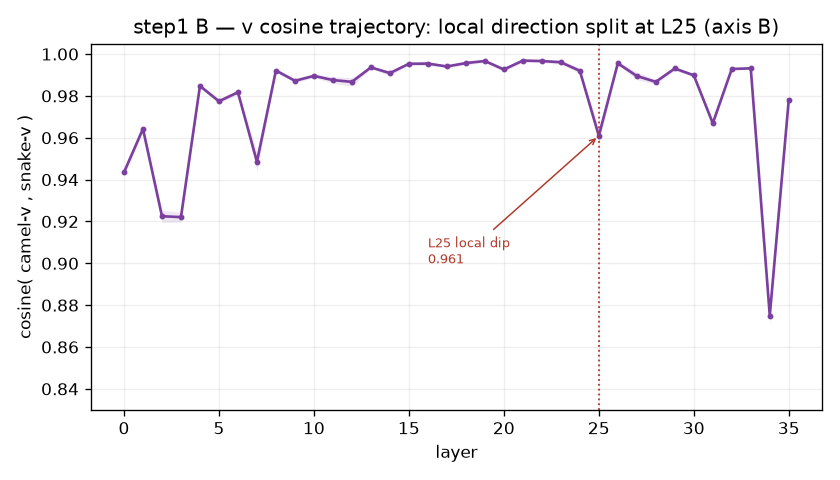
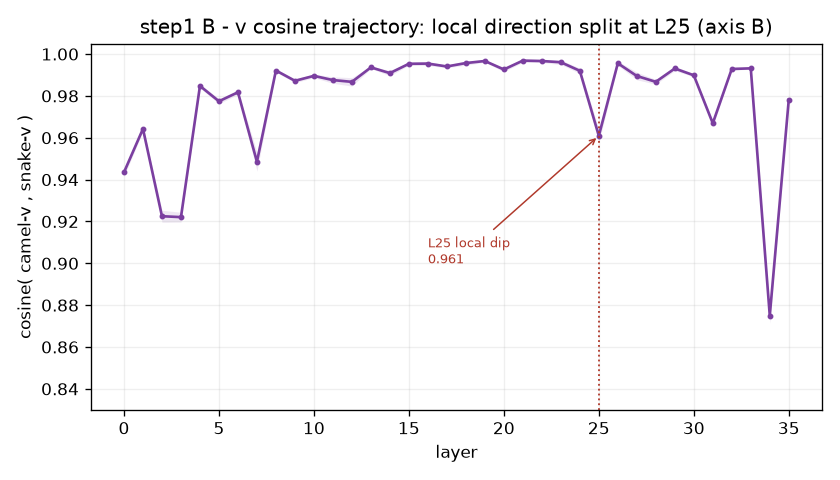
step1 docs: 용어 정리(이식값)·한자 제거·개념 구분 + qna Q3·Q4
- results.md: "donor"→"이식값"(graft), "死"→"무반응", "내용/형태" 혼동
  해소(축1 의미 vs 형태 / 축2 Key vs Value 분리 명시), 그림 라벨도
  graft로 재생성.
- qna.md: Q3(형태 vs Value 모순 해소), Q4(‖v‖·‖av‖ 관측과 step1
  회복률·코사인의 관계 = 관측→인과, 크기→방향) 추가.

Changed region(s): [[0.1548, 0.0312, 0.9286, 0.0938]]

diff --git a/docs/step1/results.md b/docs/step1/results.md
@@ -1,10 +1,13 @@
 # step 1 결과 — RQ2 층 스윕 + K/V 분해 (1차 실행)
 
-**대응 RQ:** RQ2 — 표기 형태를 매개하는 신호가 **어느 층**인가, **어느 경로(Key/Value)**인가, 그리고 그것이 **내용인가 형태인가·크기인가 방향인가**.
+**대응 RQ:** RQ2 — 표기 형태를 매개하는 신호가 **어느 층**인가, **어느 경로(Key/Value)**인가, 그리고 그것이 **의미인가 형태인가·크기인가 방향인가**.
 
 **설정.** `Qwen/Qwen2.5-Coder-3B-Instruct` (fp16, **36층**, GQA `num_attention_heads=16 / num_key_value_heads=2 / head_dim=128`, group 8). 지침=positive·camel·weak, 선행 = **전부 위반**(POOL n=0, snake 12개). L25 상대 위치 = 25/35 = **0.714**(후반).
 
-- **개입(A):** 30개 결과 중 스윕 20개 = donor 2종(compliant·unrelated_camel) × 10 seed. 각 조건이 **전 36층 × {Key만/Value만/Key+Value}**에서 세 상태 S와 회복률.
+- **개입(A):** 30개 결과 중 스윕 20개 = **이식값 2종** × 10 seed. 각 조건이 **전 36층 × {Key만/Value만/Key+Value}**에서 세 상태 S와 회복률.
+  - **이식값**(graft) = L25에서 위반 이름의 Value를 *무엇으로* 덮어쓰느냐, 그 재료. 두 종류:
+    - `compliant` = **같은이름-camel** (위반 `format_matrix`의 같은 단어 camel판 `formatMatrix`)
+    - `unrelated_camel` = **다른이름-camel** (위반과 무관한 단어의 camel판, 예 `parseHeader`)
 - **관측(B):** 코사인 10개 = 10 seed. 같은 이름의 camel판 v와 snake판 v의 층별 코사인.
 
 > **실행 전 예측:** 회복률 피크는 후반부(≈L25, 상대 0.6~0.75)에 국소화. compliant와 unrelated_camel 곡선은 전 층에서 겹침(형태 결론 유지). Value 단독 회복이 유의하면 축 B 성립. v 코사인은 피크 층 부근에서 하락 → Value 회복률 피크와 같은 층이면 축 B 확정.
@@ -17,7 +20,7 @@
 
 ### 1a. 층 국소화 — L25 단일 스파이크
 
-회복률이 **오직 L25에서만** 튀고 나머지 전 층은 ≈0.00이다. (donor=compliant, 대표 층)
+회복률이 **오직 L25에서만** 튀고 나머지 전 층은 ≈0.00이다. (이식값=같은이름-camel, 대표 층)
 
 | kind | L20 | L24 | **L25** | L26 | L30 | L35 |
 |---|---|---|---|---|---|---|
@@ -29,11 +32,11 @@
 
 stepC가 고른 L25가 우연이 아니었다. **전 층 스윕이 L25를 유일 피크로 확정**한다. 리뷰어의 "왜 25층?"에 곡선으로 답한다. 피크가 후반부(0.71)라는 것은 "표기 형태 결정이 출력에 가까운 단계에서 굳는다"는 해석과 맞물린다(계획서 §2.5 → step 8 로짓 렌즈).
 
-### 1b. K/V 분해 — Value가 전부, Key는 死 (핵심)
+### 1b. K/V 분해 — Value가 전부, Key는 무반응 (핵심)
 
 L25에서 경로별 회복률(10 seed 평균 ± std):
 
-| kind | compliant | unrelated_camel |
+| kind | 같은이름-camel | 다른이름-camel |
 |---|---|---|
 | **Value 단독** | **+0.648** ± 0.021 | +0.640 ± 0.02 |
 | Key+Value | +0.667 ± 0.022 | +0.663 ± 0.02 |
@@ -42,12 +45,12 @@ L25에서 경로별 회복률(10 seed 평균 ± std):
 ![L25 경로 분해](figs/kv_split_L25.png)
 
 - 회복은 **전부 Value가 진다.** Key+Value가 Value 단독보다 겨우 **+0.019** 크다 → Key의 추가 기여는 사실상 없다.
-- **Key 단독은 死** — 전 층에서 0에 붙어 있고(피크조차 L34 +0.02), L25에서는 오히려 미세 음수(−0.04).
+- **Key 단독은 무반응** — 전 층에서 0에 붙어 있고(피크조차 L34 +0.02), L25에서는 오히려 미세 음수(−0.04).
 - → 표기 형태 신호는 **Value 경로**(토큰이 실어 나르는 내용)에 있다. 어텐션 라우팅(Key)이 아니다.
 
-### 1c. 형태 vs 내용 — donor 통제 통과
+### 1c. 형태 vs 의미 — 이식값 통제 통과
 
-`compliant`(같은 이름 준수판)와 `unrelated_camel`(무관 준수형) 두 곡선이 **사실상 동일**하다: Key+Value 곡선의 **평균 절대차 0.001, 최대 0.005**. 같은 이름일 필요가 없다 → 회복은 내용이 아니라 **camel 형태 그 자체**가 낸다. 이 결론이 L25만이 아니라 전 층에서 유지된다.
+**같은이름-camel**(`formatMatrix`)과 **다른이름-camel**(`parseHeader` 등, 의미가 전혀 다름) 두 곡선이 **사실상 동일**하다: Key+Value 곡선의 **평균 절대차 0.001, 최대 0.005**. 의미가 완전히 틀린 이름을 이식해도 회복이 같다 → 회복을 내는 실효 성분은 이름의 **의미가 아니라 camel 형태 그 자체**다. 이 결론이 L25만이 아니라 전 층에서 유지된다.
 
 ### 1d. v 코사인 궤적 — L25 국소 딥 (축 B 방향)
 
@@ -65,7 +68,7 @@ L25에서 경로별 회복률(10 seed 평균 ± std):
 
 ## 2. Q/K/V — Key와 Value는 무엇이 다른가
 
-이 실험의 핵심이 "Key는 死, Value가 전부"이므로, 세 벡터의 역할을 짚어둔다.
+이 실험의 핵심이 "Key는 무반응, Value가 전부"이므로, 세 벡터의 역할을 짚어둔다.
 
 어텐션 층에서 각 토큰은 세 벡터를 만든다. 지금 **이름을 생성하려는 위치**(query 토큰)가 **선행 코드의 위반 이름 토큰들**(key/value를 가진 토큰)을 참조하는 상황이다.
 
@@ -75,14 +78,20 @@ L25에서 경로별 회복률(10 seed 평균 ± std):
 | **K (Key)** | 각 참조 토큰이 **자신을 어떻게 광고하는지**의 색인 | 책들의 색인표 | Q·K 내적이 **어텐션 가중치**를 정한다 = "어느 토큰을 볼지" (**라우팅**) |
 | **V (Value)** | 각 참조 토큰이 **실제로 실어 나르는 내용** | 색인이 가리키는 책의 본문 | 어텐션 가중치로 가중합돼 잔차 스트림에 더해진다 = "무엇을 읽을지" (**내용**) |
 
-핵심 공식(개념): `출력 = Σ_j softmax(Q·K_j) · V_j`. **K는 얼마나 볼지(가중치)를, V는 무엇을 읽을지(내용)를** 결정한다.
+핵심 공식(개념): `출력 = Σ_j softmax(Q·K_j) · V_j`. **K는 얼마나 볼지(가중치)를, V는 무엇을 읽을지(운반물)를** 결정한다.
+
+> **용어 주의 — "내용"이 두 뜻으로 쓰인다(혼동 지점).** 축을 분리한다.
+> - **축 1 (신호가 *무엇*인가):** 이름의 **의미(semantics)** vs **표기 형태(notation)**. → §1c가 답: **형태**.
+> - **축 2 (신호가 *어느 통로*인가):** **Key**(라우팅) vs **Value**(운반물). → §1b가 답: **Value**.
+>
+> "Value = 내용"의 '내용'은 **축 2의 "어텐션이 나르는 운반물"**이지, 축 1의 "코드 의미"가 아니다. 두 결론("신호는 형태다" + "그 신호는 Value 통로로 흐른다")은 층위가 달라 충돌하지 않는다. Value 벡터 안엔 의미·형태가 같이 실리지만(코사인 96% 공유=의미, 4% 차=형태), **표기 결정이 읽어가는 실효 성분은 형태뿐**이다(§1c의 이식값 통제가 증명 — 의미 틀린 이름을 이식해도 회복 동일).
 
 **그래서 이 실험의 치환이 무엇을 검증하나:**
 
-- **Key만 치환** = 위반 이름의 **색인(K)**을 준수판 색인으로 바꾼다. 어텐션 라우팅은 준수판처럼 재조정되지만, 정작 읽히는 **내용(V)은 위반 그대로**. → 회복 안 됨(−0.04). "어디를 볼지"를 바꿔도 결정은 안 바뀐다.
-- **Value만 치환** = 색인(K)은 위반 그대로 두어 어텐션 라우팅은 안 건드리고, **읽히는 내용(V)만** 준수판으로 바꾼다. → 회복(+0.65). "무엇을 읽을지"를 바꾸면 결정이 바뀐다.
+- **Key만 치환** = 위반 이름의 **색인(K)**을 준수판 색인으로 바꾼다. 어텐션 라우팅은 준수판처럼 재조정되지만, 정작 읽히는 **운반물(V)은 위반 그대로**. → 회복 안 됨(−0.04). "어디를 볼지"를 바꿔도 결정은 안 바뀐다.
+- **Value만 치환** = 색인(K)은 위반 그대로 두어 어텐션 라우팅은 안 건드리고, **읽히는 운반물(V)만** 준수판으로 바꾼다. → 회복(+0.65). "무엇을 읽을지"를 바꾸면 결정이 바뀐다.
 
-**stepB와의 관계 — 증상과 원인의 분리.** stepB는 "생성 위치가 위반 형태 토큰을 **더 본다**"(어텐션 가중치 1.18배 = 축 A, K 쪽 현상)를 관측했다. 그런데 step1은 그 **K를 준수판으로 바꿔도 결정은 안 바뀌고**, **V(내용)를 바꿔야 바뀐다**고 말한다. 즉 stepB가 본 어텐션 증가는 **증상(correlate)**이고, 표기를 실제로 뒤집는 **인과 레버는 Value가 실어 나르는 형태 내용**이다. 관측(축 A) → 인과(축 B)로 초점이 정확히 이동했다. 이 dissociation이 step1의 가장 중요한 기여다.
+**stepB와의 관계 — 증상과 원인의 분리.** stepB는 "생성 위치가 위반 형태 토큰을 **더 본다**"(어텐션 가중치 1.18배 = 축 A, K 쪽 현상)를 관측했다. 그런데 step1은 그 **K를 준수판으로 바꿔도 결정은 안 바뀌고**, **V(운반물)를 바꿔야 바뀐다**고 말한다. 즉 stepB가 본 어텐션 증가는 **증상(correlate)**이고, 표기를 실제로 뒤집는 **인과 레버는 Value가 실어 나르는 형태 성분**이다. 관측(축 A) → 인과(축 B)로 초점이 정확히 이동했다. 이 dissociation이 step1의 가장 중요한 기여다.
 
 > **주의(하네스 §3 GQA):** 이 모델은 KV head가 2개뿐이고 query head 16개가 8개씩 공유한다. 치환은 반드시 **KV group 단위**로 수행했다(캐시 `[B, n_kv=2, seq, d]`를 직접 편집). group을 무시하면 치환 정밀도가 깨진다.
 
@@ -93,14 +102,14 @@ L25에서 경로별 회복률(10 seed 평균 ± std):
 | 질문 | 답 | 근거 |
 |---|---|---|
 | 어느 층인가 | **L25 단일**, 후반(0.71), 날카로운 스파이크 | 1a — 타 층 전부 ≈0 |
-| 어느 경로인가 | **Value**. Key는 死 | 1b — Value 0.65 / Key −0.04 |
-| 내용인가 형태인가 | **형태** | 1c — donor 곡선 차 0.001 |
+| 어느 경로인가 | **Value**. Key는 무반응 | 1b — Value 0.65 / Key −0.04 |
+| 의미인가 형태인가 | **형태** | 1c — 이식값 곡선 차 0.001 |
 | 크기인가 방향인가 | **방향** (미세 성분) | 1d — L25 코사인 국소 딥 0.961 |
 
 **이 답들이 방법론(step 7) 설계를 못 박는다:**
 
 - 개입 지점 = **후반 단일 층(이 모델은 L25) × Value 경로**. Key 개입·어텐션 증폭은 불필요(효과 0).
-- 공여는 **형태 donor면 충분**(정확한 이름 불필요) → 스티어링 벡터를 형태만으로 구성 가능.
+- 이식값은 **아무 camel 형태면 충분**(정확한 이름 불필요) → 스티어링 벡터를 형태만으로 구성 가능.
 - 형태 신호가 **미세 방향 성분**이라는 점은 스티어링이 정밀해야 함을 뜻한다 → 크게 밀 필요 없이 그 성분만 조준.
 
 **다음 step:**
